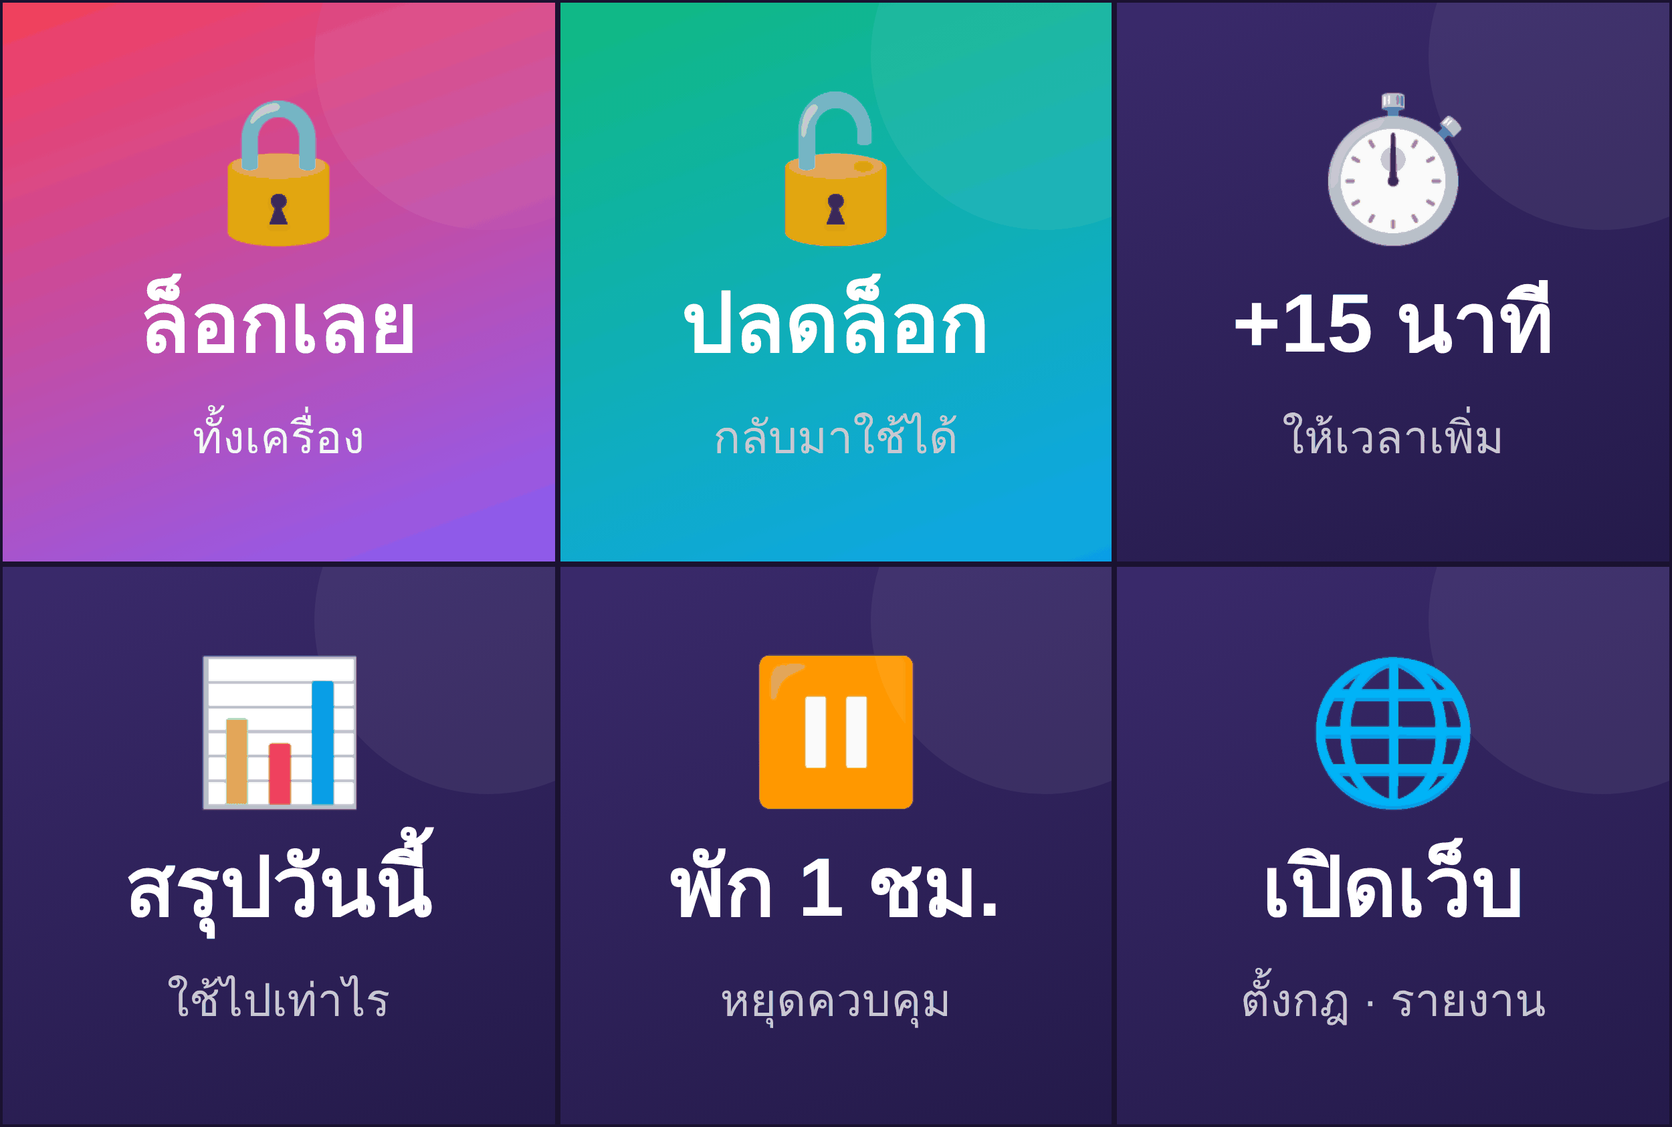
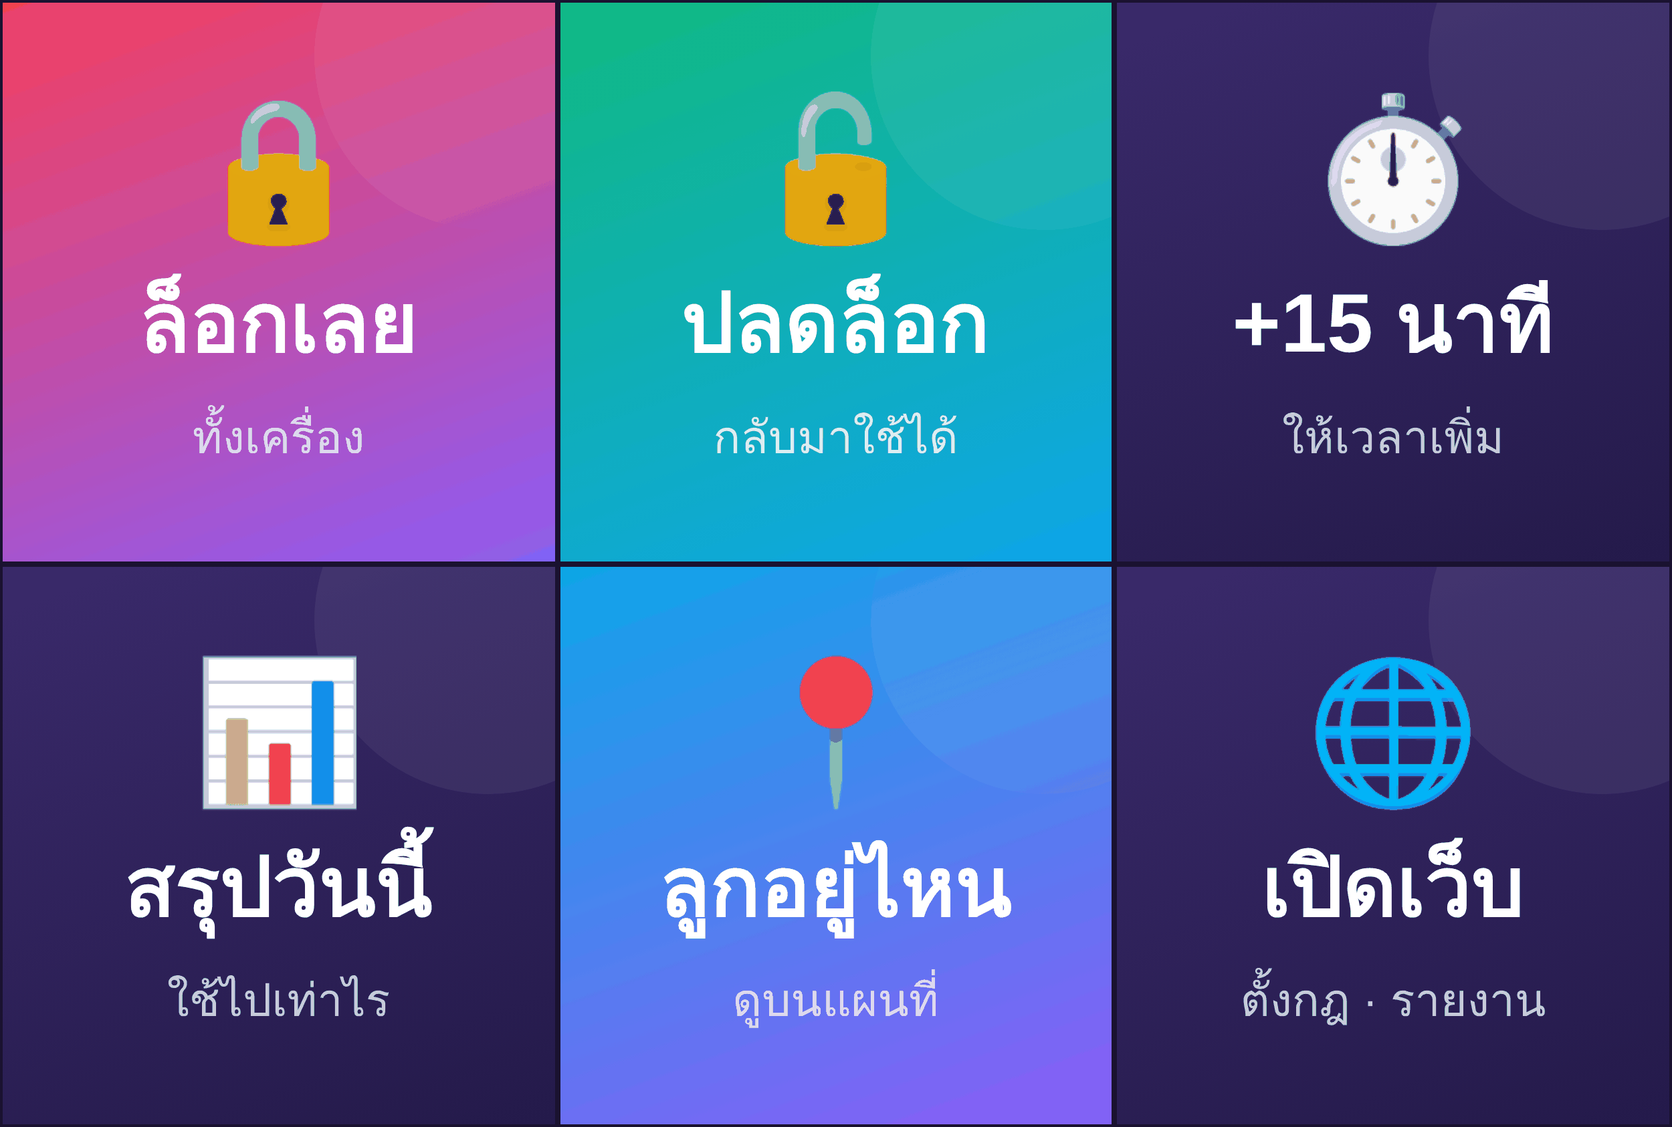
v1.9: ตำแหน่งลูกบนแผนที่ + เมนูลัด LINE ปุ่มลูกอยู่ไหน
Claude-Session: https://claude.ai/code/session_01JwvN8fKKSCW45yF5yKNAU7

diff --git a/index.html b/index.html
@@ -12,6 +12,8 @@
 <link rel="icon" type="image/svg+xml" href="icon.svg">
 <link rel="apple-touch-icon" href="apple-touch-icon.png">
 <link rel="manifest" href="manifest.json">
+<link rel="stylesheet" href="https://unpkg.com/leaflet@1.9.4/dist/leaflet.css" crossorigin="">
+<script src="https://unpkg.com/leaflet@1.9.4/dist/leaflet.js" crossorigin=""></script>
 <link rel="preconnect" href="https://fonts.googleapis.com">
 <link href="https://fonts.googleapis.com/css2?family=IBM+Plex+Sans+Thai:wght@400;500;600;700&family=Inter:wght@600;700;800&family=Mali:wght@700&display=swap" rel="stylesheet">
 <style>
@@ -269,6 +271,55 @@ textarea.mt:focus{border-color:#A78BFA}
 .calm .req{animation:edge 2.6s ease-in-out infinite}
 @media (prefers-reduced-motion:reduce){*,*::before,*::after{animation:none!important;transition:none!important}}
 </style>
+<style>
+/* ===== ตำแหน่งลูก ===== */
+.loc{padding:0;overflow:hidden;border-color:rgba(34,211,238,.45)}
+.lmap{position:relative;height:230px;background:#1A1638}
+.lmap .lm{position:absolute;inset:0;z-index:0}
+.lmap .ov{position:absolute;z-index:500;top:12px;display:flex;gap:6px;pointer-events:none}
+.lmap .ov.l{left:12px}.lmap .ov.r{right:12px}
+.lchip{padding:6px 11px;border-radius:99px;background:rgba(16,11,40,.78);font-size:13px;font-weight:600;-webkit-backdrop-filter:blur(8px);backdrop-filter:blur(8px)}
+.lchip.g{background:rgba(16,60,48,.85);color:#7DFFC4}.lchip.w{background:rgba(90,60,10,.9);color:#FFD98A}
+.linfo{padding:14px 16px 16px}
+.lrow{display:flex;align-items:center;gap:12px}
+.lrow .e{font-size:28px;flex:0 0 auto}
+.lplace{font-size:18px;font-weight:700;line-height:1.3}
+.lbtn{display:flex;gap:10px;margin-top:14px}
+.lbtn button{flex:1;height:50px;border-radius:16px;font-size:16px;font-weight:700}
+.lbtn .p{border:0;background:linear-gradient(90deg,#8B5CF6,#22D3EE);color:#fff;position:relative;overflow:hidden}
+.lbtn .p:disabled{opacity:.75}
+.lbtn .s{border:1px solid rgba(255,255,255,.2);background:rgba(255,255,255,.08);color:#fff;font-weight:600}
+.lempty{padding:18px 16px;display:flex;gap:12px;align-items:center}
+.kpin{position:relative;width:52px;height:52px}
+.kpin .r{position:absolute;left:50%;top:40%;width:110px;height:110px;margin:-55px 0 0 -55px;border-radius:50%;border:2px solid #22D3EE;animation:kradar 2.2s ease-out infinite;pointer-events:none}
+.kpin .r.b{animation-delay:1.1s}
+@keyframes kradar{0%{transform:scale(.25);opacity:.85}100%{transform:scale(1.5);opacity:0}}
+.kpin .h{position:absolute;inset:0;border-radius:50% 50% 50% 4px;transform:rotate(-45deg);background:linear-gradient(135deg,#8B5CF6,#22D3EE);padding:4px;box-shadow:0 8px 20px rgba(0,0,0,.5)}
+.kpin .h i{display:flex;width:100%;height:100%;border-radius:50%;background:#FFE7A8;transform:rotate(45deg);align-items:center;justify-content:center;font-style:normal;font-size:24px}
+.kpin.old .h{background:linear-gradient(135deg,#6B6790,#4B4870)}.kpin.old .r{display:none}
+.leaflet-container{background:#1A1638;font-family:inherit}
+.leaflet-control-attribution{font-size:9px!important;background:rgba(16,11,40,.6)!important;color:#8F89C2!important}
+.leaflet-control-attribution a{color:#B9B3E6!important}
+.tdot{width:14px;height:14px;border-radius:50%;background:#fff;border:3px solid #8B5CF6;box-shadow:0 2px 6px rgba(0,0,0,.5)}
+.tlab{display:inline-block;width:max-content;white-space:nowrap;padding:3px 8px;border-radius:8px;background:rgba(0,0,0,.6);color:#fff;font-size:12px;font-weight:600;transform:translate(10px,-24px)}
+/* หน้าแผนที่เต็มจอ */
+.mview{position:fixed;inset:0;z-index:25;background:#0B0820;display:flex;flex-direction:column;transform:translateY(100%);transition:transform .45s cubic-bezier(.2,.9,.25,1.02)}
+.mview.show{transform:none}
+.mview .mm{flex:1;min-height:200px;position:relative}
+.mview .mm .lm{position:absolute;inset:0}
+.mtop{position:absolute;z-index:600;left:14px;right:14px;top:calc(env(safe-area-inset-top) + 12px);display:flex;justify-content:space-between;align-items:center;gap:8px}
+.mback{width:46px;height:46px;border-radius:15px;border:1px solid rgba(255,255,255,.18);background:rgba(16,11,40,.85);color:#fff;font-size:24px}
+.days{display:flex;gap:6px;overflow-x:auto;max-width:calc(100% - 60px)}
+.days button{flex:0 0 auto;padding:9px 13px;border-radius:99px;border:1px solid rgba(255,255,255,.16);background:rgba(16,11,40,.85);color:#fff;font-size:14px;font-weight:600}
+.days button.on{border:0;background:linear-gradient(90deg,#8B5CF6,#22D3EE)}
+.mpanel{max-height:46vh;overflow-y:auto;border-radius:28px 28px 0 0;margin-top:-26px;position:relative;z-index:600;background:linear-gradient(180deg,rgba(40,28,88,.98),rgba(16,11,40,.99));border:1px solid rgba(255,255,255,.16);border-bottom:0;padding:10px 20px calc(env(safe-area-inset-bottom) + 18px)}
+.tl{display:flex;flex-direction:column;gap:14px;margin-top:14px}
+.tli{display:flex;gap:12px;align-items:flex-start;font-size:16px;cursor:pointer}
+.tli .t{font-family:Inter,sans-serif;font-weight:700;width:48px;color:#C9C3F5;font-size:14px;padding-top:2px;flex:0 0 auto}
+.tli .d{width:12px;height:12px;border-radius:50%;margin-top:6px;flex:none;background:#8B5CF6;box-shadow:0 0 0 4px rgba(139,92,246,.25)}
+.tli.now .d{background:#22D3EE;box-shadow:0 0 0 4px rgba(34,211,238,.3)}
+.tli small{display:block;font-size:13px;color:var(--mut)}
+</style>
 </head>
 <body>
 <div class="aurora"></div>
@@ -325,6 +376,14 @@ textarea.mt:focus{border-color:#A78BFA}
       </div>
     </div>
     <div id="reqList" style="display:flex;flex-direction:column;gap:10px"></div>
+    <div class="glass loc rise" style="animation-delay:.16s" id="locCard">
+      <div class="lmap" id="locMapBox"><div class="lm" id="locMap"></div>
+        <div class="ov l"><span class="lchip">📍 ตำแหน่งลูก</span></div><div class="ov r" id="locAcc"></div></div>
+      <div class="linfo">
+        <div class="lrow"><div class="e" id="locE">📍</div><div style="flex:1;min-width:0"><div class="lplace" id="locPlace">-</div><div class="mut" id="locSub"></div></div></div>
+        <div class="lbtn"><button class="p shine" id="locNow" data-snd onclick="locateNow(this)">🎯 หาตอนนี้</button><button class="s" data-snd onclick="openMap()">🗺 ดูเส้นทาง</button></div>
+      </div>
+    </div>
     <div class="qa rise" style="animation-delay:.24s" id="qa"></div>
     <button class="msgbtn rise" style="animation-delay:.28s" id="msgBtn" onclick="openMsg()">💬 ส่งข้อความถึงลูก</button>
     <div class="note" id="note">คำสั่งถึงเครื่องลูกภายในประมาณ 30 วินาที</div>
@@ -391,6 +450,17 @@ textarea.mt:focus{border-color:#A78BFA}
   <button id="tRu" onclick="tab('ru')"><span class="ti">⚙</span>ตั้งกฎ</button>
 </nav>
 
+<div class="mview" id="mview" role="dialog" aria-modal="true">
+  <div class="mm"><div class="lm" id="bigMap"></div>
+    <div class="mtop"><button class="mback" onclick="closeMap()" aria-label="กลับ">‹</button><div class="days" id="mDays"></div></div></div>
+  <div class="mpanel">
+    <div class="grab"></div>
+    <div style="display:flex;align-items:center;justify-content:space-between"><div style="font-size:21px;font-weight:700" id="mTitle">เส้นทางวันนี้</div><div class="mut" style="font-size:13px">บันทึกทุก ~15 นาที</div></div>
+    <div class="tl" id="mTl"></div>
+    <button class="big shine" style="margin-top:18px;width:100%" id="mNow" data-snd onclick="locateNow(this)">🎯 หาตำแหน่งตอนนี้ (GPS แม่นยำ)</button>
+    <div class="note" style="margin-top:8px">จอเปิด ≈ 1 นาที · จอดับ อาจนานถึง 15 นาที</div>
+  </div>
+</div>
 <div class="toast" id="toast"></div>
 <div class="sbg hidden" id="sbg" onclick="closeSheet()"></div>
 <div class="sheet" id="sheet" role="dialog" aria-modal="true"></div>
@@ -398,8 +468,9 @@ textarea.mt:focus{border-color:#A78BFA}
 <div class="dlg" id="dlg" role="alertdialog"><div class="e" id="dE">🔒</div><h3 id="dT"></h3><p id="dP"></p><div class="two"><button class="bno" onclick="dlgAns(false)">ยกเลิก</button><button class="bok" id="dOk" onclick="dlgAns(true)">ตกลง</button></div></div>
 
 <script>
-var WEB_VER = '1.8', WEB_DATE = '6 พ.ย. 2569', LATEST_APP = '1.8';
+var WEB_VER = '1.9', WEB_DATE = '6 พ.ย. 2569', LATEST_APP = '1.9';
 var CHANGES = [
+  ['1.9','6 พ.ย. 2569','ดูตำแหน่งลูกบนแผนที่ (ประหยัดแบต ทุก ~15 นาที) · ปุ่มหาตอนนี้ด้วย GPS · เส้นทางย้อนหลัง 7 วัน · ถาม "ลูกอยู่ไหน" ใน LINE · เตือนเมื่อลูกปิดตำแหน่ง'],
   ['1.8','6 พ.ย. 2569','ส่งข้อความขึ้นจอเครื่องลูก ลูกกดตอบได้ แจ้งกลับทาง LINE · แก้ข้อความด่วนได้ในแท็บตั้งกฎ · พิมพ์ "บอกลูก" ใน LINE'],
   ['1.7','5 พ.ย. 2569','คำสั่งถึงเครื่องลูกเร็วขึ้น (ช้าสุด ~30 วินาที) · ซิงค์ทันทีเมื่อลูกเปิดจอ · เมนูลัดใน LINE'],
   ['1.6','5 พ.ย. 2569','หน้าเครื่องลูกดีไซน์ใหม่ลูกเจี๊ยบสดใส · ขอเล่นเพิ่มได้จากหน้าหลัก · เสียงกดปุ่มในเครื่องลูก'],
@@ -466,10 +537,136 @@ function load(){
     if(FIRST || miss) loadIcons(FIRST);
     if(!QLOADED) loadQuick();
     render(); showTab();
+    if(FIRST && location.hash==='#map') setTimeout(openMap, 400);
+    if(MAPOPEN && MDAY===todayKey()) loadDay(MDAY, true);
   }).catch(function(e){
     if(String(e.message||'').indexOf('รหัสผ่าน')>=0){ try{localStorage.removeItem('kgpw');}catch(x){} location.reload(); }
     toast('โหลดข้อมูลไม่ได้: '+(e.message||e));
   });
+}
+// ===== ตำแหน่งลูก =====
+var LMAP=null, LMK=null, LCIRC=null, BMAP=null, BLAYER=null, MAPOPEN=false, MDAY='', LOCWAIT=0, LOCTIMER=null, PLACES={};
+var TILE='https://{s}.basemaps.cartocdn.com/dark_all/{z}/{x}/{y}{r}.png', TATTR='© OpenStreetMap © CARTO';
+function todayKey(t){ var d=t?new Date(t):new Date(); return d.getFullYear()+('0'+(d.getMonth()+1)).slice(-2)+('0'+d.getDate()).slice(-2); }
+function lago(t){ var m=Math.floor((Date.now()-t)/60000); if(m<1) return 'เมื่อสักครู่'; if(m<60) return m+' นาทีที่แล้ว'; if(m<1440) return Math.floor(m/60)+' ชม.'+(m%60?' '+(m%60)+' นาที':'')+'ที่แล้ว'; return new Date(t).toLocaleString('th-TH',{day:'numeric',month:'short',hour:'2-digit',minute:'2-digit'}); }
+function pinIcon(old){ return L.divIcon({className:'',html:'<div class="kpin'+(old?' old':'')+'"><div class="r"></div><div class="r b"></div><div class="h"><i>🐥</i></div></div>',iconSize:[52,52],iconAnchor:[26,52]}); }
+function placeE(p){ p=String(p||''); return /โรงเรียน|วิทยาลัย|school/i.test(p)?'🏫':/วัด/.test(p)?'🛕':/ตลาด|ห้าง|ร้าน|เซเว่น|7-Eleven|มาร์ท|โลตัส|บิ๊กซี/i.test(p)?'🛍':/โรงพยาบาล|คลินิก/.test(p)?'🏥':/สวน|สนาม/.test(p)?'🌳':'📍'; }
+function renderLoc(d){
+  if(!window.L){ $('locCard').classList.add('hidden'); return; }
+  var l=d.loc, st=d.locState, old=vnum(d.appVersion||'0')<vnum('1.9');
+  var btn=$('locNow');
+  if(!LOCWAIT){ btn.disabled=false; btn.textContent=d.locPending?'⏳ รอเครื่องลูก…':'🎯 หาตอนนี้'; }
+  if(!l){
+    $('locMapBox').style.display='none'; $('locAcc').innerHTML='';
+    $('locE').textContent='📍';
+    $('locPlace').textContent = old ? 'อัปเดตแอปเครื่องลูกเป็น v1.9' : st==='noperm' ? 'ยังไม่ได้เปิดสิทธิ์ตำแหน่ง' : st==='off' ? 'เครื่องลูกปิดตำแหน่งอยู่' : 'รอตำแหน่งแรกจากเครื่องลูก';
+    $('locSub').textContent = old ? 'แล้วเปิดสิทธิ์ "ตำแหน่ง" ในหน้าผู้ปกครอง ข้อ 1 (เลือก อนุญาตตลอดเวลา)' : st==='noperm' ? 'เครื่องลูก: หน้าผู้ปกครอง ข้อ 1 > ตำแหน่ง > อนุญาตตลอดเวลา' : st==='off' ? 'ให้เปิด Location ที่เครื่องลูก' : 'ภายใน ~15 นาที หรือกด "หาตอนนี้"';
+    return;
+  }
+  $('locMapBox').style.display='';
+  var stale=Date.now()-l.t>60*60000;
+  $('locAcc').innerHTML = (st==='off'||st==='noperm' ? '<span class="lchip w">⚠ ปิดตำแหน่งอยู่</span>' : '<span class="lchip g">± '+(l.acc||'?')+' ม.</span>');
+  $('locE').textContent=placeE(l.place);
+  $('locPlace').textContent=l.place||'-';
+  $('locSub').textContent='อัปเดต '+lago(l.t)+(l.src==='gps'?' · GPS':'')+((d.battery!==''&&Number(d.battery)>=0)?' · แบตเครื่องลูก '+d.battery+'%':'');
+  var ll=[l.lat,l.lng];
+  if(!LMAP){
+    LMAP=L.map('locMap',{zoomControl:false,attributionControl:true,dragging:false,scrollWheelZoom:false,doubleClickZoom:false,touchZoom:false,boxZoom:false,keyboard:false,tap:false}).setView(ll,16);
+    L.tileLayer(TILE,{maxZoom:19,subdomains:'abcd',attribution:TATTR}).addTo(LMAP);
+    LMAP.on('click',openMap);
+  }
+  if(!LMK){ LMK=L.marker(ll,{icon:pinIcon(stale)}).addTo(LMAP); LCIRC=L.circle(ll,{radius:Math.max(l.acc||0,10),color:'#22D3EE',weight:1,fillColor:'#22D3EE',fillOpacity:.12}).addTo(LMAP); }
+  else { LMK.setLatLng(ll); LMK.setIcon(pinIcon(stale)); LCIRC.setLatLng(ll); LCIRC.setRadius(Math.max(l.acc||0,10)); }
+  LMAP.setView([l.lat+0.0006,l.lng],16,{animate:false});
+  setTimeout(function(){ LMAP.invalidateSize(); },60);
+}
+function locateNow(btn){
+  var d=dev(); if(!d) return;
+  if(vnum(d.appVersion||'0')<vnum('1.9')){ sfx('err'); toast('ต้องอัปเดตแอปเครื่องลูกเป็น v1.9 ก่อน'); return; }
+  if(d.locState==='off'){ sfx('err'); toast('เครื่องลูกปิดตำแหน่ง (Location) อยู่'); return; }
+  var prev=d.loc?d.loc.t:0;
+  LOCWAIT=Date.now();
+  [$('locNow'),$('mNow')].forEach(function(b){ b.disabled=true; b.textContent='⏳ กำลังหาตำแหน่ง…'; });
+  call('command',{deviceId:d.deviceId,cmd:'locate',arg:0}).then(function(){
+    sfx('ok'); burstAt(btn); toast('🎯 ส่งคำสั่งแล้ว รอเครื่องลูกหา GPS…');
+    var tries=0; clearInterval(LOCTIMER);
+    LOCTIMER=setInterval(function(){
+      tries++;
+      load().then(function(){
+        var n=dev(); if(!n) return;
+        var got=n.loc && n.loc.t>prev && n.loc.t>=LOCWAIT-60000;
+        if(got || tries>=30){
+          clearInterval(LOCTIMER); LOCWAIT=0;
+          $('mNow').disabled=false; $('mNow').textContent='🎯 หาตำแหน่งตอนนี้ (GPS แม่นยำ)';
+          render();
+          if(got){ sfx('ok'); toast('📍 ได้ตำแหน่งล่าสุดแล้ว'+(n.loc.src==='gps'?' (GPS ± '+n.loc.acc+' ม.)':'')); if(MAPOPEN) loadDay(todayKey(),true); }
+          else toast('เครื่องลูกยังไม่ตอบ อาจจอดับอยู่ ระบบจะอัปเดตเองเมื่อได้ตำแหน่ง');
+        }
+      });
+    },10000);
+  }).catch(function(e){ LOCWAIT=0; sfx('err'); render(); $('mNow').disabled=false; $('mNow').textContent='🎯 หาตำแหน่งตอนนี้ (GPS แม่นยำ)'; toast('ส่งไม่ได้: '+(e.message||e)); });
+}
+function openMap(){
+  if(!window.L || !dev()) return;
+  MAPOPEN=true; $('mview').classList.add('show'); document.body.style.overflow='hidden'; sfx('open');
+  try{ history.replaceState(null,'','#map'); }catch(e){}
+  var days=[]; for(var i=0;i<7;i++){ var t=Date.now()-i*86400000; days.push([todayKey(t), i===0?'วันนี้':i===1?'เมื่อวาน':new Date(t).toLocaleDateString('th-TH',{weekday:'short',day:'numeric'})]); }
+  $('mDays').innerHTML=days.map(function(x){ return '<button data-k="'+x[0]+'" onclick="loadDay(\''+x[0]+'\')">'+x[1]+'</button>'; }).join('');
+  if(!BMAP){
+    BMAP=L.map('bigMap',{zoomControl:false,attributionControl:true}).setView([8.3,98.7],13);
+    L.tileLayer(TILE,{maxZoom:19,subdomains:'abcd',attribution:TATTR}).addTo(BMAP);
+    BLAYER=L.layerGroup().addTo(BMAP);
+  }
+  setTimeout(function(){ BMAP.invalidateSize(); loadDay(todayKey()); },460);
+}
+function closeMap(){ MAPOPEN=false; $('mview').classList.remove('show'); document.body.style.overflow=''; sfx('close'); try{ history.replaceState(null,'',location.pathname); }catch(e){} }
+// รวมจุดที่อยู่ใกล้กันต่อเนื่องเป็น "ที่พัก" หนึ่งแห่ง
+function stays(pts){
+  var out=[];
+  pts.forEach(function(p){
+    var c=out[out.length-1];
+    if(c && L.latLng(c.lat,c.lng).distanceTo([p.lat,p.lng]) <= Math.max(150, Math.min(400,(p.acc||0)+(c.acc||0)))){
+      c.end=p.t; c.n++; if((p.acc||999)<(c.acc||999)){ c.lat=p.lat; c.lng=p.lng; c.acc=p.acc; c.src=p.src; }
+    } else out.push({lat:p.lat,lng:p.lng,acc:p.acc,src:p.src,start:p.t,end:p.t,n:1});
+  });
+  return out;
+}
+function loadDay(k, quiet){
+  MDAY=k; var d=dev(); if(!d) return;
+  [].forEach.call($('mDays').children,function(b){ b.classList.toggle('on', b.getAttribute('data-k')===k); });
+  if(!quiet){ sfx('pick'); $('mTl').innerHTML='<div class="mut">กำลังโหลด…</div>'; }
+  $('mTitle').textContent = k===todayKey() ? 'เส้นทางวันนี้' : 'เส้นทาง '+$('mDays').querySelector('[data-k="'+k+'"]').textContent;
+  call('locs',{deviceId:d.deviceId,day:k}).then(function(r){
+    if(MDAY!==k) return;
+    var pts=(r&&r.points)||[]; BLAYER.clearLayers();
+    if(!pts.length){ $('mTl').innerHTML='<div class="mut">ไม่มีข้อมูลตำแหน่งวันนี้</div>'; if(d.loc && k===todayKey()) BMAP.setView([d.loc.lat,d.loc.lng],15); return; }
+    var line=pts.map(function(p){return [p.lat,p.lng];});
+    L.polyline(line,{color:'#A78BFA',weight:5,opacity:.9,lineCap:'round'}).addTo(BLAYER);
+    var S=stays(pts), last=S[S.length-1];
+    S.forEach(function(s,i){
+      if(i===S.length-1) return;
+      L.marker([s.lat,s.lng],{icon:L.divIcon({className:'',html:'<div class="tdot"></div>',iconSize:[14,14],iconAnchor:[7,7]})}).addTo(BLAYER);
+      L.marker([s.lat,s.lng],{icon:L.divIcon({className:'',html:'<div class="tlab">'+tm(s.start)+'</div>',iconSize:[0,0]}),interactive:false}).addTo(BLAYER);
+    });
+    var isToday=k===todayKey();
+    L.circle([last.lat,last.lng],{radius:Math.max(last.acc||0,10),color:'#22D3EE',weight:1,fillColor:'#22D3EE',fillOpacity:.12}).addTo(BLAYER);
+    L.marker([last.lat,last.lng],{icon:pinIcon(!isToday || Date.now()-last.end>60*60000)}).addTo(BLAYER);
+
+    var rows=S.slice().reverse();
+    $('mTl').innerHTML=rows.map(function(s,i){
+      var cur=i===0&&isToday, stay=s.end-s.start;
+      var sub = cur ? lago(s.end)+' · ± '+(s.acc||'?')+' ม.'+(s.src==='gps'?' (GPS)':'') : (stay>=10*60000?'อยู่ '+dur(stay)+' (ถึง '+tm(s.end)+')':'ผ่าน');
+      return '<div class="tli'+(cur?' now':'')+'" onclick="BMAP.setView(['+s.lat+','+s.lng+'],17)"><div class="t">'+tm(s.start)+'</div><div class="d"></div><div style="flex:1;min-width:0"><b class="pl" data-ll="'+s.lat+','+s.lng+'">'+(PLACES[s.lat+','+s.lng]?placeE(PLACES[s.lat+','+s.lng])+' '+esc(PLACES[s.lat+','+s.lng]):'…')+'</b><small>'+sub+'</small></div></div>';
+    }).join('');
+    BMAP.invalidateSize(); BMAP.fitBounds(L.latLngBounds(line).pad(.2),{maxZoom:16});
+    // ชื่อสถานที่ (เซิร์ฟเวอร์จำไว้ จึงเรียกซ้ำได้ไม่เปลือง)
+    rows.slice(0,12).forEach(function(s){
+      var key=s.lat+','+s.lng; if(PLACES[key]) return;
+      call('place',{lat:s.lat,lng:s.lng}).then(function(x){ PLACES[key]=(x&&x.place)||'-';
+        [].forEach.call(document.querySelectorAll('.pl[data-ll="'+key+'"]'),function(e){ e.textContent=placeE(PLACES[key])+' '+PLACES[key]; }); });
+    });
+    rows.slice(12).forEach(function(s){ var e=document.querySelector('.pl[data-ll="'+s.lat+','+s.lng+'"]'); if(e&&!PLACES[s.lat+','+s.lng]) e.textContent=s.lat.toFixed(4)+', '+s.lng.toFixed(4); });
+  }).catch(function(e){ $('mTl').innerHTML='<div class="mut">โหลดไม่ได้: '+esc(e.message||e)+'</div>'; });
 }
 function dev(){ return (DATA && DATA.devices || []).filter(function(x){return x.deviceId===CUR;})[0]; }
 
@@ -515,6 +712,7 @@ function render(){
     (av ? '<span class="chip" style="'+(needUp?'background:rgba(255,210,90,.18);color:#FFE7A1':'')+'">'+(needUp?'⬆ ':'📱 ')+'v'+esc(av)+'</span>' : '');
   renderVer(d, av, needUp);
   $('msgBtn').textContent='💬 ส่งข้อความถึง'+d.name;
+  renderLoc(d);
   if(!QEDIT) drawQm();
   var bed = d.cfg && d.cfg.bedOn ? ' · นอน '+hm(d.cfg.bedStart) : '';
   $('kInfo').innerHTML = 'ใช้ไป '+dur(used)+(unlimited?'':' จาก '+dur(total))+(d.bonusMin>0?' (รวมเพิ่ม '+d.bonusMin+' น.)':'')+'<br>'+esc(d.model||'')+bed;
